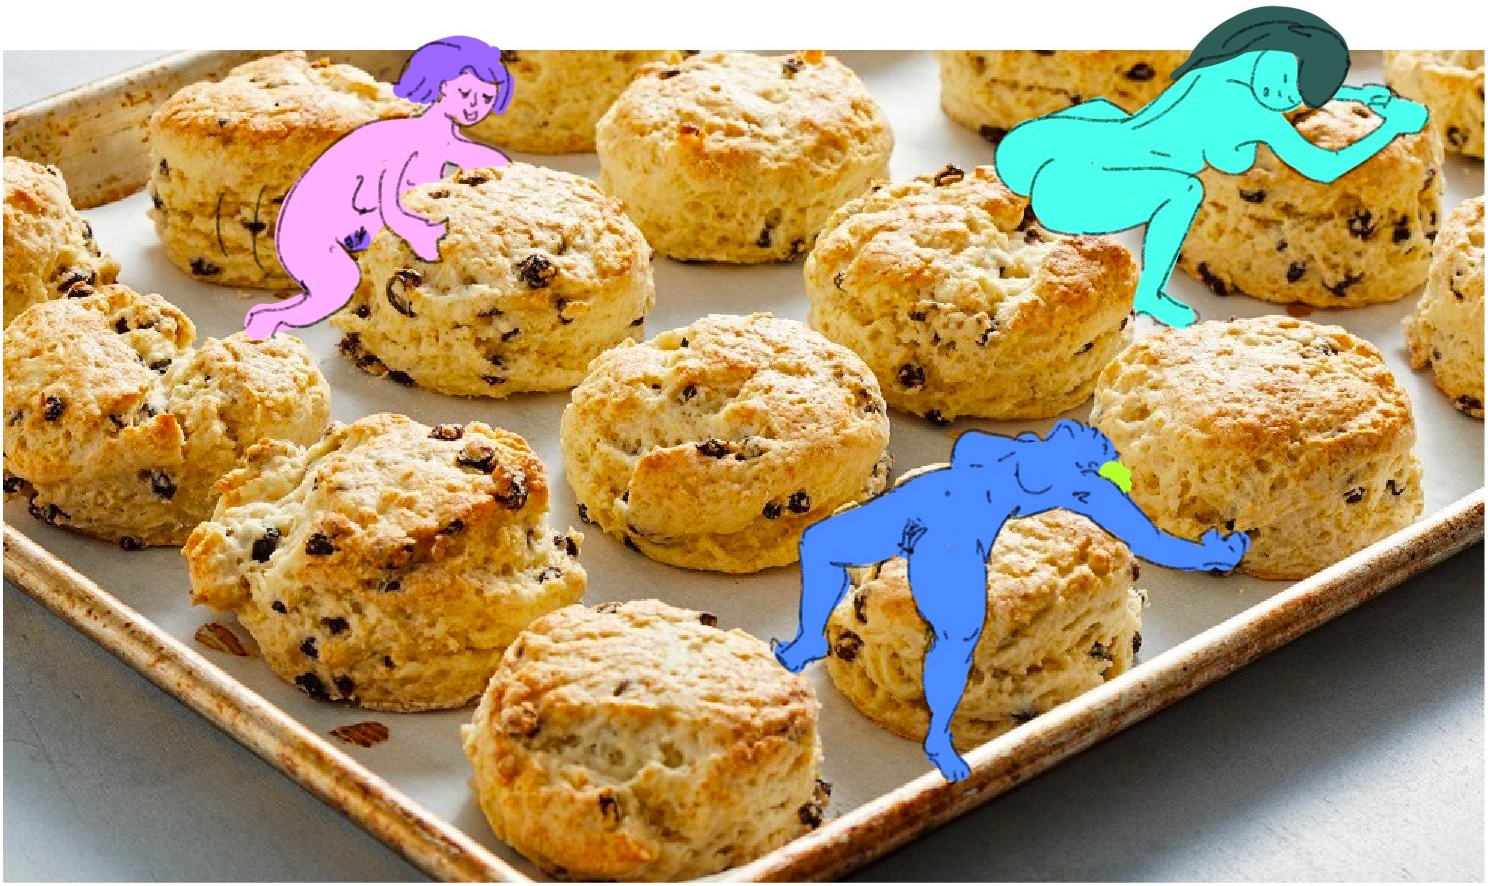
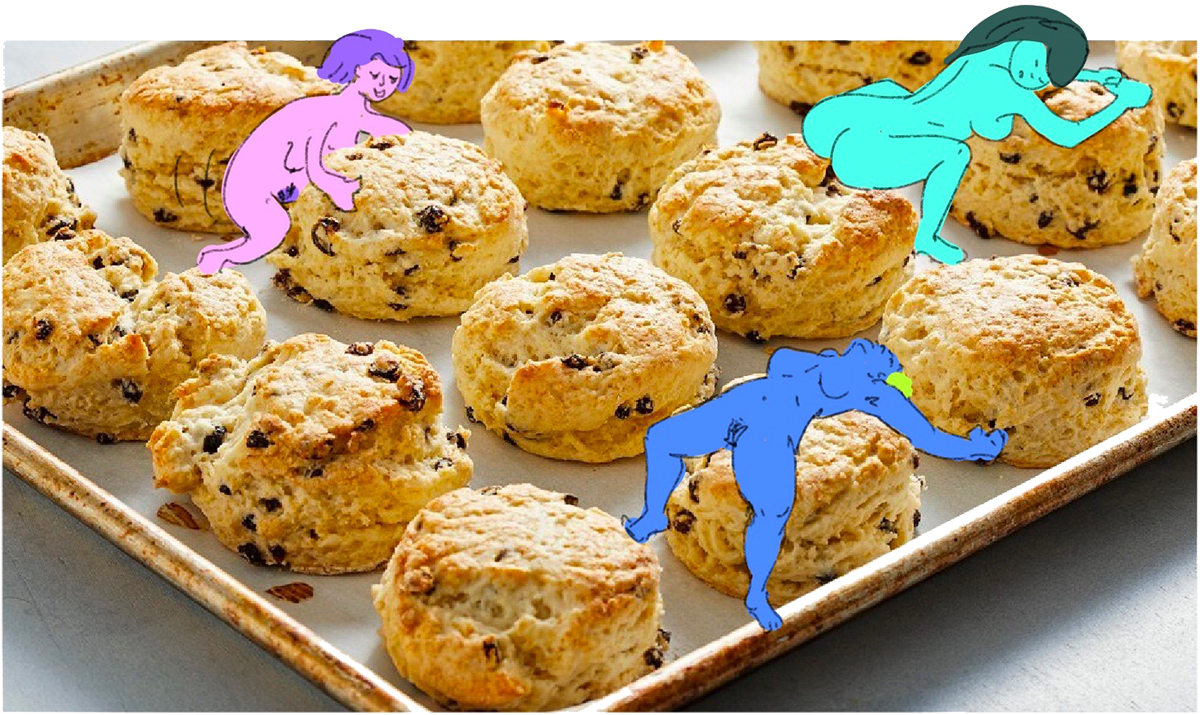
Add z index.

diff --git a/styles/EasterEggs.module.css b/styles/EasterEggs.module.css
@@ -11,7 +11,9 @@
 }
 
 .scorgy {
-  position: absolute;;
+  position: absolute;
+  z-index: 1;
+  background: transparent;
 }
 
 .scorgy img {
@@ -19,4 +21,5 @@
   height: auto;
   animation: blink 0.1s;
   animation-iteration-count: infinite;
+  background: transparent;
 }
